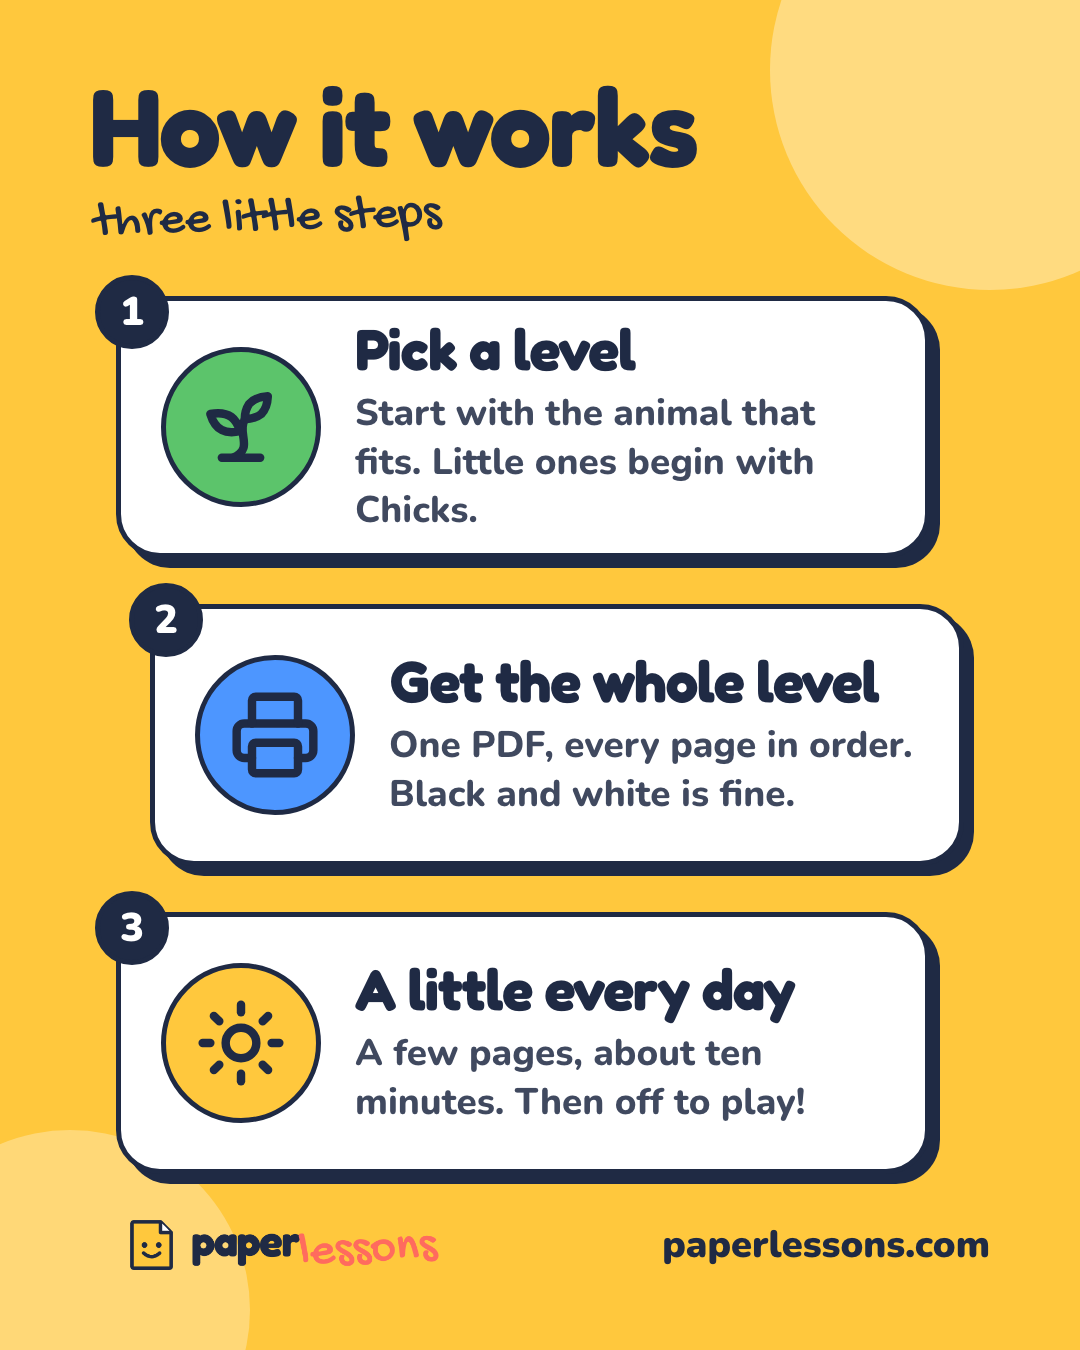
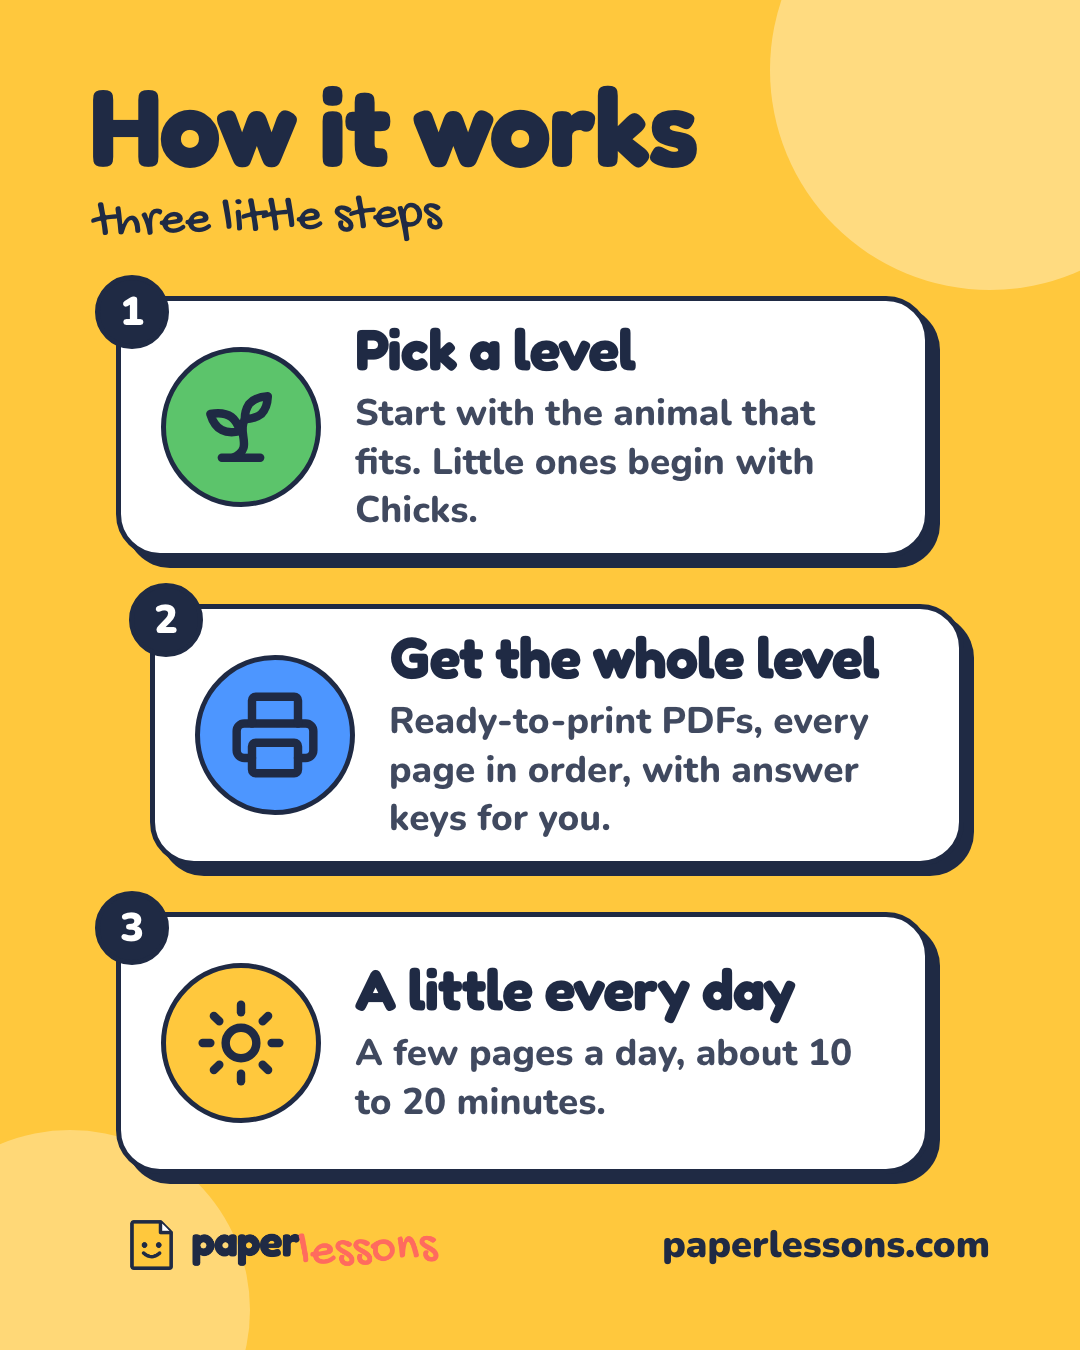
Instagram set 2: redrawn Otters mascot; How it works matches the site
- re-rendered the Thirteen levels climb + level cards and Ages 7 & 8 with the new otter
- set2-08: whole level = ready-to-print PDFs with answer keys; a few pages a day, about 10 to 20 minutes
- grid preview refreshed

Claude-Session: https://claude.ai/code/session_01G3RaoCsPFUWHqcF2R7D6Dn

Changed region(s): [[0.3361, 0.4667, 0.8556, 0.6222], [0.3361, 0.7467, 0.7944, 0.84]]

diff --git a/scripts/marketing/instagram_launch.py b/scripts/marketing/instagram_launch.py
@@ -309,8 +309,8 @@ def post_real_page() -> str:
 def post_how() -> str:
     steps = [
         (LEAF, "sprout", "Pick a level", "Start with the animal that fits. Little ones begin with Chicks."),
-        (SKY, "printer", "Get the whole level", "One PDF, every page in order. Black and white is fine."),
-        (SUN, "sun", "A little every day", "A few pages, about ten minutes. Then off to play!"),
+        (SKY, "printer", "Get the whole level", "Ready-to-print PDFs, every page in order, with answer keys for you."),
+        (SUN, "sun", "A little every day", "A few pages a day, about 10 to 20 minutes."),
     ]
     cards = ""
     y = 296
@@ -652,12 +652,12 @@ See all thirteen levels at the link in bio.""",
         "caption": """How it works, in three little steps:
 
 1⃣ Pick a level. Start with the animal that fits. Little ones begin with Chicks; older kids jump in higher up.
-2⃣ Get the whole level. One PDF with every page in order. Print it all, or a week at a time. Black and white is fine.
-3⃣ A little every day. A few pages, about ten minutes, then off to play.
+2⃣ Get the whole level. Ready-to-print PDFs, every page in order, with answer keys for you. Print it all, or a week at a time. Black and white is fine.
+3⃣ A little every day. A few pages a day, about 10 to 20 minutes. When three pages in a row feel easy, move up a step.
 
 Free previews at the link in bio.""",
         "tags": f"{TAGS_BASE} #dailyroutine #learnathome #homeschoolmom #printables #worksheetsforkids #paperlessons",
-        "alt": "Yellow background titled \"How it works\" with three numbered cards: 1, Pick a level, with a sprout icon; 2, Get the whole level, one PDF, every page in order, with a printer icon; 3, A little every day, a few pages, about ten minutes, with a sun icon. The paperlessons logo and paperlessons.com sit at the bottom.",
+        "alt": "Yellow background titled \"How it works\" with three numbered cards: 1, Pick a level, with a sprout icon; 2, Get the whole level, ready-to-print PDFs, every page in order, with answer keys for you, with a printer icon; 3, A little every day, a few pages a day, about 10 to 20 minutes, with a sun icon. The paperlessons logo and paperlessons.com sit at the bottom.",
     },
 }
 

diff --git a/marketing/instagram/posts/set2-08-how-it-works/caption.md b/marketing/instagram/posts/set2-08-how-it-works/caption.md
@@ -7,8 +7,8 @@ Images: `post.png`
 How it works, in three little steps:
 
 1⃣ Pick a level. Start with the animal that fits. Little ones begin with Chicks; older kids jump in higher up.
-2⃣ Get the whole level. One PDF with every page in order. Print it all, or a week at a time. Black and white is fine.
-3⃣ A little every day. A few pages, about ten minutes, then off to play.
+2⃣ Get the whole level. Ready-to-print PDFs, every page in order, with answer keys for you. Print it all, or a week at a time. Black and white is fine.
+3⃣ A little every day. A few pages a day, about 10 to 20 minutes. When three pages in a row feel easy, move up a step.
 
 Free previews at the link in bio.
 
@@ -16,4 +16,4 @@ Free previews at the link in bio.
 
 ## Alt text
 
-Yellow background titled "How it works" with three numbered cards: 1, Pick a level, with a sprout icon; 2, Get the whole level, one PDF, every page in order, with a printer icon; 3, A little every day, a few pages, about ten minutes, with a sun icon. The paperlessons logo and paperlessons.com sit at the bottom.
+Yellow background titled "How it works" with three numbered cards: 1, Pick a level, with a sprout icon; 2, Get the whole level, ready-to-print PDFs, every page in order, with answer keys for you, with a printer icon; 3, A little every day, a few pages a day, about 10 to 20 minutes, with a sun icon. The paperlessons logo and paperlessons.com sit at the bottom.
